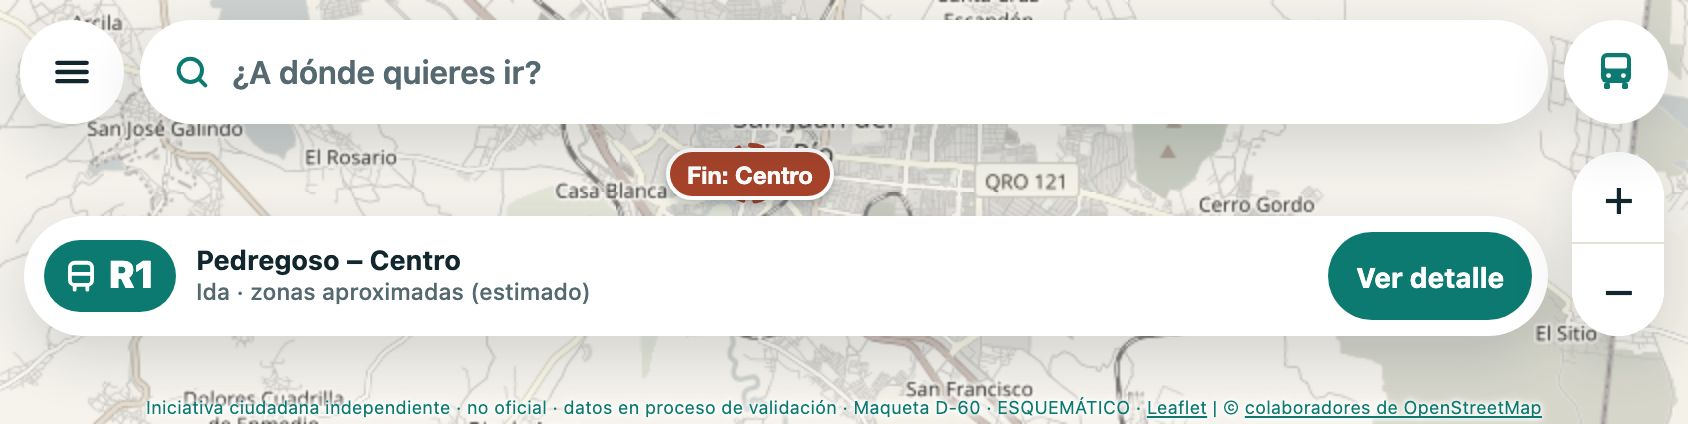
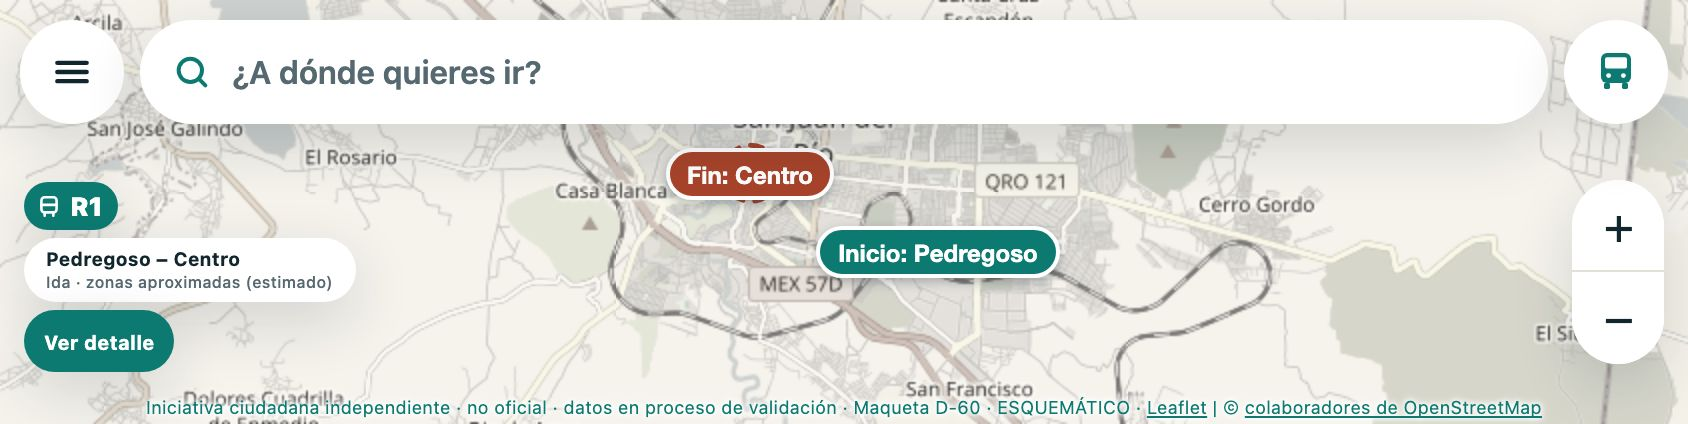
B2 · E-03 · D-60: maqueta, chip de ruta vertical y 30 % más chico con el teléfono acostado

Changed region(s): [[0.0, 0.4292, 0.9858, 0.8892], [0.9242, 0.3679, 0.9858, 0.4906], [0.955, 0.6745, 0.9858, 0.7052]]

diff --git a/docs/maquetas/d60/maqueta.html b/docs/maquetas/d60/maqueta.html
@@ -314,8 +314,24 @@ button { font: inherit; color: inherit; }
    y abajo solo el renglón del pie. */
 @media (max-height: 500px) {
   .leaflet-control-zoom.leaflet-bar { margin-bottom: 30px; }
-  .app:has(.chip-ruta) .leaflet-control-zoom.leaflet-bar { margin-bottom: 44px; }
-  .chip-ruta { right: calc(max(12px, env(safe-area-inset-right)) + 58px); }
+  /* Ajuste (Miguel, 1:49 am): con ruta elegida, el chip va a la izquierda y en
+     vertical, tres píldoras apiladas (insignia, nombre, «Ver detalle»), 30 % más
+     chico en letra, íconos y márgenes, para que se vea el mapa. «Ver detalle» se ve
+     de 31 px pero se puede tocar en 44 px (área táctil mínima). */
+  .chip-ruta {
+    right: auto; left: max(12px, env(safe-area-inset-left)); bottom: 26px;
+    flex-direction: column; align-items: flex-start; gap: 4px; max-width: 190px;
+    padding: 0; background: none; box-shadow: none; border-radius: 0;
+  }
+  .chip-ruta .camion { font-size: 13px; padding: 4px 8px 4px 6px; box-shadow: var(--sombra); }
+  .chip-ruta .camion svg { width: 13px; height: 13px; }
+  .chip-ruta .nombre-chip {
+    flex: none; padding: 5px 11px; border-radius: 999px; background: var(--tarjeta);
+    box-shadow: var(--sombra); font-size: 9.5px;
+  }
+  .chip-ruta .nombre-chip small { font-size: 8px; }
+  .chip-ruta .ver { position: relative; min-height: 31px; padding: 0 10px; border-radius: 999px; font-size: 10px; box-shadow: var(--sombra); }
+  .chip-ruta .ver::after { content: ''; position: absolute; inset: -7px -4px; }
   .hoja { padding-top: 6px; padding-bottom: 18px; }
   .hoja-cabeza { padding-bottom: 0; }
   .pestanas { margin-bottom: 6px; }

diff --git a/docs/DECISIONES.md b/docs/DECISIONES.md
@@ -1739,4 +1739,12 @@ Miguel).
   rutas a la vista al desplazar: 1 → 2 (alto útil 117 → 159 px). Teléfono parado y
   computadora sin cambio (mismas filas y posiciones). Capturas en
   `docs/maquetas/d60/capturas/` (`menu-antes-despues-844x280.jpg`).
+- **Ajuste (Miguel, 21 nov 2026, 1:49 am),** en vez del chip más corto: con ruta
+  elegida y el teléfono acostado, el chip va **a la izquierda y en vertical**: tres
+  píldoras apiladas (insignia R1, nombre con su sentido, «Ver detalle»), **30 % más
+  chico** en letra, íconos y márgenes, para que no tape el mapa. Es el único cambio de
+  la orientación horizontal. «Ver detalle» se ve de 31 px pero se toca en 44 px (área
+  táctil mínima, con un margen invisible). Medido: el chip tapa 7 % de la pantalla a
+  844 × 280 (antes 21 %) y 9 % a 844 × 212 (antes 27 %); no se encima con el zoom ni con
+  la barra; parado y computadora sin cambio. Captura: `ruta-844x280.jpg`.
 - **Decide:** Miguel.
